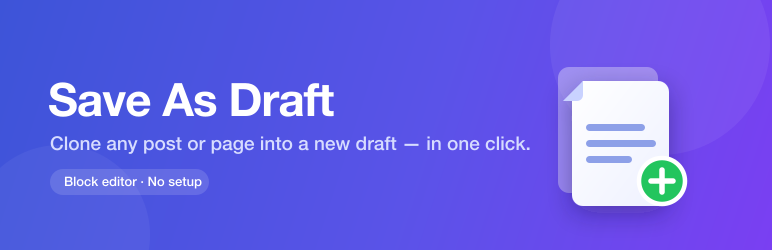
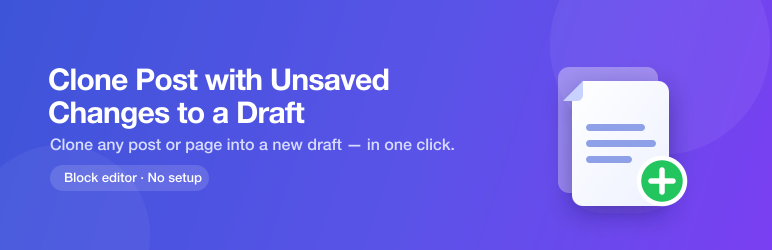
Rename plugin for WordPress.org slug

Changed region(s): [[0.0622, 0.252, 0.5285, 0.532], [0.0622, 0.532, 0.6839, 0.616], [0.0622, 0.644, 0.2798, 0.784]]

diff --git a/src/components/SaveAsModal.tsx b/src/components/SaveAsModal.tsx
@@ -53,20 +53,20 @@ export const SaveAsModal = ( {
 
     return (
         <Modal
-            title={ __( 'Save As', 'save-as-draft' ) }
+            title={ __( 'Save As', 'clone-post-unsaved-changes' ) }
             onRequestClose={ busy ? () => undefined : onClose }
         >
             { error && (
                 <Notice status="error" isDismissible={ false }>
                     { sprintf(
                         // translators: %s: the error message returned by the server.
-                        __( 'Could not create the copy: %s', 'save-as-draft' ),
+                        __( 'Could not create the copy: %s', 'clone-post-unsaved-changes' ),
                         error
                     ) }
                 </Notice>
             ) }
             <TextControl
-                label={ __( 'Title for the copy', 'save-as-draft' ) }
+                label={ __( 'Title for the copy', 'clone-post-unsaved-changes' ) }
                 value={ title }
                 onChange={ setTitle }
                 __next40pxDefaultSize
@@ -74,10 +74,10 @@ export const SaveAsModal = ( {
             />
             <div style={ { marginTop: '16px' } }>
                 <CheckboxControl
-                    label={ __( "Don't ask next time", 'save-as-draft' ) }
+                    label={ __( "Don't ask next time", 'clone-post-unsaved-changes' ) }
                     help={ __(
                         'You can reopen this dialog by Ctrl/⌘-clicking the “Save As” button.',
-                        'save-as-draft'
+                        'clone-post-unsaved-changes'
                     ) }
                     checked={ dontAsk }
                     onChange={ setDontAsk }
@@ -86,7 +86,7 @@ export const SaveAsModal = ( {
             </div>
             <div style={ { marginTop: '16px' } }>
                 <CheckboxControl
-                    label={ __( 'Hide the toolbar button', 'save-as-draft' ) }
+                    label={ __( 'Hide the toolbar button', 'clone-post-unsaved-changes' ) }
                     checked={ hideToolbar }
                     onChange={ onToggleToolbar }
                     __nextHasNoMarginBottom
@@ -94,10 +94,10 @@ export const SaveAsModal = ( {
             </div>
             <div style={ { marginTop: '12px' } }>
                 <CheckboxControl
-                    label={ __( 'Hide the sidebar button', 'save-as-draft' ) }
+                    label={ __( 'Hide the sidebar button', 'clone-post-unsaved-changes' ) }
                     help={ __(
                         'The “Save As” item in the ⋮ menu always stays available.',
-                        'save-as-draft'
+                        'clone-post-unsaved-changes'
                     ) }
                     checked={ hideSidebar }
                     onChange={ onToggleSidebar }
@@ -106,7 +106,7 @@ export const SaveAsModal = ( {
             </div>
             <Flex justify="flex-end" gap={ 3 } style={ { marginTop: '24px' } }>
                 <Button variant="tertiary" onClick={ onClose } disabled={ busy }>
-                    { __( 'Cancel', 'save-as-draft' ) }
+                    { __( 'Cancel', 'clone-post-unsaved-changes' ) }
                 </Button>
                 <Button
                     variant="primary"
@@ -116,8 +116,8 @@ export const SaveAsModal = ( {
                     __next40pxDefaultSize
                 >
                     { busy
-                        ? __( 'Creating…', 'save-as-draft' )
-                        : __( 'Create draft', 'save-as-draft' ) }
+                        ? __( 'Creating…', 'clone-post-unsaved-changes' )
+                        : __( 'Create draft', 'clone-post-unsaved-changes' ) }
                 </Button>
             </Flex>
         </Modal>

diff --git a/src/preferences.ts b/src/preferences.ts
@@ -6,18 +6,21 @@
  */
 
 export const PREF_KEYS = {
-    skipModal: 'saveAsDraftSkipModal',
-    hideToolbar: 'saveAsDraftHideToolbar',
-    hideSidebar: 'saveAsDraftHideSidebar',
+    skipModal: 'clonePostUnsavedChangesSkipModal',
+    hideToolbar: 'clonePostUnsavedChangesHideToolbar',
+    hideSidebar: 'clonePostUnsavedChangesHideSidebar',
 } as const;
 
 export type PrefKey = ( typeof PREF_KEYS )[ keyof typeof PREF_KEYS ];
 
-export const getPref = ( key: PrefKey ): boolean => {
+export const getPref = ( key: PrefKey, defaultValue = false ): boolean => {
     try {
-        return window.localStorage.getItem( key ) === '1';
+        const stored = window.localStorage.getItem( key );
+        // Fall back to the default only when the user hasn't chosen yet;
+        // an explicit '0'/'1' always wins.
+        return stored === null ? defaultValue : stored === '1';
     } catch ( e ) {
-        return false;
+        return defaultValue;
     }
 };
 

diff --git a/src/api/draft.ts b/src/api/draft.ts
@@ -53,7 +53,7 @@ export const createDraftCopy = async ( title: string ): Promise< RestPost > => {
 
     if ( ! newPost || ! newPost.id ) {
         throw new Error(
-            __( 'No post was returned by the server.', 'save-as-draft' )
+            __( 'No post was returned by the server.', 'clone-post-unsaved-changes' )
         );
     }
     return newPost;
@@ -70,7 +70,7 @@ export const errorMessage = ( err: unknown ): string => {
             return message;
         }
     }
-    return __( 'Unknown error', 'save-as-draft' );
+    return __( 'Unknown error', 'clone-post-unsaved-changes' );
 };
 
 // Copy straight away (used when the user opted out of the dialog), surfacing any
@@ -82,7 +82,7 @@ export const quickCopy = ( title: string ): Promise< void > =>
             ( dispatch( 'core/notices' ) as any ).createErrorNotice(
                 sprintf(
                     // translators: %s: the error message returned by the server.
-                    __( 'Save As failed: %s', 'save-as-draft' ),
+                    __( 'Save As failed: %s', 'clone-post-unsaved-changes' ),
                     errorMessage( err )
                 ),
                 { type: 'snackbar' }

diff --git a/src/components/SaveAsPlugin.tsx b/src/components/SaveAsPlugin.tsx
@@ -34,8 +34,10 @@ export const SaveAsPlugin = () => {
     const [ hideToolbar, setHideToolbar ] = useState(
         getPref( PREF_KEYS.hideToolbar )
     );
+    // The sidebar button is hidden by default (the toolbar button and ⋮ menu
+    // item remain); users can opt back in from the dialog's visibility settings.
     const [ hideSidebar, setHideSidebar ] = useState(
-        getPref( PREF_KEYS.hideSidebar )
+        getPref( PREF_KEYS.hideSidebar, true )
     );
 
     const toggleHideToolbar = ( hide: boolean ) => {
@@ -75,7 +77,7 @@ export const SaveAsPlugin = () => {
         return null;
     }
 
-    const label = __( 'Save As', 'save-as-draft' );
+    const label = __( 'Save As', 'clone-post-unsaved-changes' );
 
     return (
         <>

diff --git a/src/hooks/useToolbarSlot.ts b/src/hooks/useToolbarSlot.ts
@@ -23,7 +23,7 @@ export const useToolbarSlot = ( enabled: boolean ): HTMLElement | null => {
                 return false;
             }
             node = document.createElement( 'div' );
-            node.className = 'save-as-draft__toolbar-slot';
+            node.className = 'clone-post-unsaved-changes__toolbar-slot';
             node.style.display = 'flex';
             node.style.alignItems = 'center';
             settings.prepend( node ); // sit before the native Save/Publish buttons

diff --git a/src/index.tsx b/src/index.tsx
@@ -4,4 +4,4 @@
 import { registerPlugin } from '@wordpress/plugins';
 import { SaveAsPlugin } from './components/SaveAsPlugin';
 
-registerPlugin( 'save-as-draft', { render: SaveAsPlugin } );
+registerPlugin( 'clone-post-unsaved-changes', { render: SaveAsPlugin } );

diff --git a/src/types.ts b/src/types.ts
@@ -1,5 +1,5 @@
 /**
- * Shared types for the Save As Draft plugin.
+ * Shared types for the Clone Post with Unsaved Changes plugin.
  */
 
 // A WordPress REST post object. Only `id` is relied on directly; the rest of

diff --git a/README.md b/README.md
@@ -1,4 +1,4 @@
-# Save As Draft
+# Clone Post with Unsaved Changes to a Draft
 
 Adds a **Save As** button to the WordPress block editor that clones the current post or page — including unsaved changes — into a new draft and opens it.
 
@@ -48,12 +48,12 @@ src/
 ```
 
 - **State** is read/written through `@wordpress/data` stores (`core/editor`, `core`); the DOM is touched only to mount the toolbar button.
-- **`save-as-draft.php`** enqueues the compiled bundle on `enqueue_block_editor_assets`, reading dependencies/version from the generated `*.asset.php` manifest, and registers JS translations via `wp_set_script_translations()`.
+- **`clone-post-unsaved-changes.php`** enqueues the compiled bundle on `enqueue_block_editor_assets`, reading dependencies/version from the generated `*.asset.php` manifest, and registers JS translations via `wp_set_script_translations()`.
 - **Build:** [`@wordpress/scripts`](https://developer.wordpress.org/block-editor/reference-guides/packages/packages-scripts/) with zero config — it auto-detects the `src/index.tsx` entry and emits `build/index.js` (+ `build/index.asset.php`). `wp-scripts` strips TypeScript via Babel at build time; `pnpm typecheck` runs `tsc` separately. Run `pnpm plugin-zip` to produce a distributable zip (see `.distignore`).
 
 ## Internationalization
 
-All user-facing strings use `__`/`sprintf` from `@wordpress/i18n` with the `save-as-draft` text domain, wired for translation via `wp_set_script_translations()`. The text domain matches the plugin slug, as required for WordPress.org language packs.
+All user-facing strings use `__`/`sprintf` from `@wordpress/i18n` with the `clone-post-unsaved-changes` text domain, wired for translation via `wp_set_script_translations()`. The text domain matches the plugin slug, as required for WordPress.org language packs.
 
 ## License
 